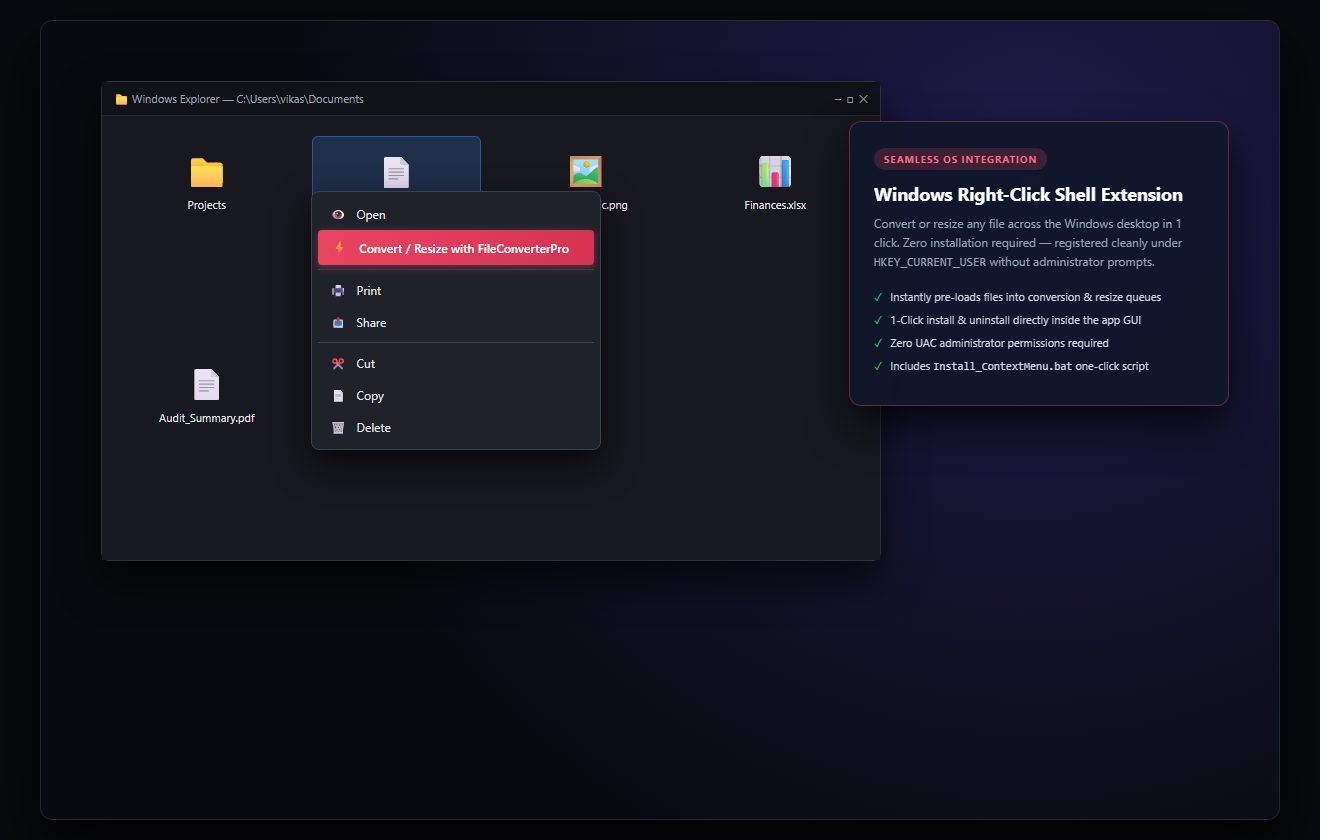
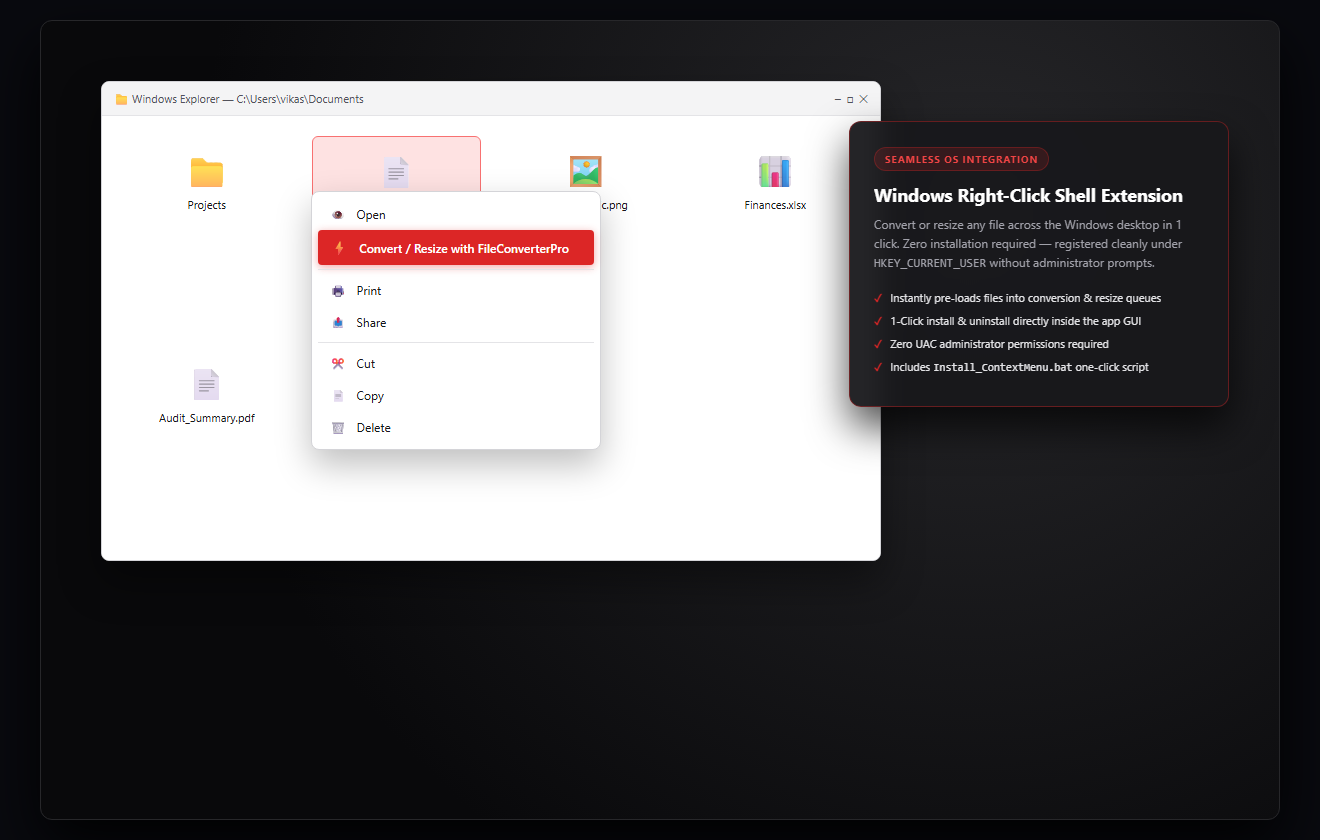
feat(ui): update interface to minimal red, white and grey Swiss theme with high-DPI screenshots

diff --git a/converter.py b/converter.py
@@ -102,21 +102,23 @@ PRESET_SIZES = {
     "Custom": "custom",
 }
 
-# Color palette — dark modern theme
+# Color palette — Minimal Red, White & Grey theme
 COLORS = {
-    "bg_dark": "#1a1a2e",
-    "bg_mid": "#16213e",
-    "bg_card": "#0f3460",
-    "accent": "#e94560",
-    "accent_hover": "#ff6b81",
-    "text_primary": "#ffffff",
-    "text_secondary": "#a0a0b0",
-    "success": "#2ecc71",
-    "warning": "#f39c12",
-    "error": "#e74c3c",
-    "border": "#2a2a4a",
-    "input_bg": "#1e1e3a",
-    "button_bg": "#e94560",
+    "bg_dark": "#f4f4f5",        # Clean minimal light grey window background (Zinc 100)
+    "bg_mid": "#ffffff",         # Pure crisp white for panels & containers
+    "bg_card": "#ffffff",        # Pure crisp white for cards & surface frames
+    "accent": "#dc2626",         # Bold minimal red (Crimson Red 600)
+    "accent_hover": "#b91c1c",   # Darker red for interactive hover states (Red 700)
+    "text_primary": "#09090b",   # Deep charcoal / near-black for high contrast (Zinc 950)
+    "text_secondary": "#71717a", # Minimal cool slate grey for metadata (Zinc 500)
+    "success": "#16a34a",        # Clean emerald green
+    "warning": "#ea580c",        # Warm amber
+    "error": "#dc2626",          # Vibrant red
+    "border": "#e4e4e7",         # Crisp subtle light grey border (Zinc 200)
+    "border_dark": "#d4d4d8",    # Defined grey border for inputs & buttons (Zinc 300)
+    "input_bg": "#ffffff",       # Pure white input background
+    "button_bg": "#dc2626",      # Vibrant red primary button
+    "trough": "#e4e4e7",         # Light grey track for progress bar
 }
 
 
@@ -369,7 +371,7 @@ class FileConverterApp:
         self.root.geometry(f"{w}x{h}+{x}+{y}")
 
     def _setup_styles(self):
-        """Configure ttk styles for the dark theme."""
+        """Configure ttk styles for the minimal red, white, grey theme."""
         self.style = ttk.Style()
         self.style.theme_use("clam")
 
@@ -378,19 +380,19 @@ class FileConverterApp:
                              foreground=COLORS["text_primary"],
                              fieldbackground=COLORS["input_bg"],
                              bordercolor=COLORS["border"],
-                             troughcolor=COLORS["bg_mid"])
+                             troughcolor=COLORS["trough"])
 
         # Notebook (tabs)
         self.style.configure("TNotebook", background=COLORS["bg_dark"],
                              borderwidth=0)
         self.style.configure("TNotebook.Tab",
-                             background=COLORS["bg_mid"],
+                             background=COLORS["bg_dark"],
                              foreground=COLORS["text_secondary"],
                              padding=[20, 10],
                              font=("Segoe UI", 11, "bold"))
         self.style.map("TNotebook.Tab",
                        background=[("selected", COLORS["accent"])],
-                       foreground=[("selected", COLORS["text_primary"])])
+                       foreground=[("selected", "#ffffff")])
 
         # Frames
         self.style.configure("Card.TFrame", background=COLORS["bg_card"],
@@ -416,28 +418,31 @@ class FileConverterApp:
                              font=("Segoe UI", 12, "bold"))
         self.style.configure("Status.TLabel",
                              background=COLORS["bg_dark"],
-                             foreground=COLORS["success"],
-                             font=("Segoe UI", 10))
+                             foreground=COLORS["text_secondary"],
+                             font=("Segoe UI", 10, "bold"))
 
         # Buttons
         self.style.configure("Accent.TButton",
                              background=COLORS["accent"],
-                             foreground=COLORS["text_primary"],
+                             foreground="#ffffff",
                              font=("Segoe UI", 11, "bold"),
                              padding=[20, 10],
                              borderwidth=0)
         self.style.map("Accent.TButton",
                        background=[("active", COLORS["accent_hover"]),
-                                   ("pressed", COLORS["accent"])])
+                                   ("pressed", COLORS["accent"])],
+                       foreground=[("active", "#ffffff"),
+                                   ("pressed", "#ffffff")])
 
         self.style.configure("Secondary.TButton",
                              background=COLORS["bg_card"],
                              foreground=COLORS["text_primary"],
-                             font=("Segoe UI", 10),
+                             font=("Segoe UI", 10, "bold"),
                              padding=[15, 8],
-                             borderwidth=0)
+                             borderwidth=1,
+                             bordercolor=COLORS["border_dark"])
         self.style.map("Secondary.TButton",
-                       background=[("active", COLORS["border"])])
+                       background=[("active", COLORS["bg_dark"])])
 
         # Combobox
         self.style.configure("TCombobox",
@@ -449,7 +454,7 @@ class FileConverterApp:
 
         # Progress bar
         self.style.configure("Accent.Horizontal.TProgressbar",
-                             troughcolor=COLORS["bg_mid"],
+                             troughcolor=COLORS["trough"],
                              background=COLORS["accent"],
                              borderwidth=0,
                              thickness=8)
@@ -494,7 +499,7 @@ class FileConverterApp:
 
         ttk.Label(title_frame, text="⚡ FileConverterPro",
                   style="Title.TLabel").pack(side=tk.LEFT)
-        ttk.Label(title_frame, text=f"v{APP_VERSION}  •  Offline Universal Converter",
+        ttk.Label(title_frame, text=f"v{APP_VERSION}  •  Offline Universal Converter & Resizer",
                   style="Subtitle.TLabel").pack(side=tk.LEFT, padx=(15, 0), pady=(8, 0))
 
         # Windows Explorer Context Menu button
@@ -512,6 +517,19 @@ class FileConverterApp:
         self._build_resize_tab()
         self._build_pdf_tools_tab()
         self._build_batch_tab()
+
+        # Status bar
+        status_frame = ttk.Frame(self.root, style="Dark.TFrame")
+        status_frame.pack(fill=tk.X, padx=20, pady=(0, 10))
+
+        self.status_var = tk.StringVar(value="Ready — Select files to get started")
+        self.status_label = ttk.Label(status_frame, textvariable=self.status_var,
+                                      style="Status.TLabel")
+        self.status_label.pack(side=tk.LEFT)
+
+        self.progress = ttk.Progressbar(status_frame, length=250, mode="determinate",
+                                        style="Accent.Horizontal.TProgressbar")
+        self.progress.pack(side=tk.RIGHT)
 
     def _update_menu_btn_text(self):
         if is_context_menu_registered():
@@ -533,19 +551,6 @@ class FileConverterApp:
             else:
                 messagebox.showerror("Error", f"Failed to add context menu: {msg}")
         self._update_menu_btn_text()
-
-        # Status bar
-        status_frame = ttk.Frame(self.root, style="Dark.TFrame")
-        status_frame.pack(fill=tk.X, padx=20, pady=(0, 10))
-
-        self.status_var = tk.StringVar(value="Ready — Select files to get started")
-        self.status_label = ttk.Label(status_frame, textvariable=self.status_var,
-                                      style="Status.TLabel")
-        self.status_label.pack(side=tk.LEFT)
-
-        self.progress = ttk.Progressbar(status_frame, length=250, mode="determinate",
-                                        style="Accent.Horizontal.TProgressbar")
-        self.progress.pack(side=tk.RIGHT)
 
     # ──────── Tab 1: Format Converter ────────
 

diff --git a/README.md b/README.md
@@ -22,6 +22,7 @@
 ## 🌟 Highlights
 
 - 🔒 **100% Offline & Private:** Your documents and photos never leave your machine. No telemetry, no cloud APIs.
+- 🎨 **Minimal Red & White UI:** Clean Swiss minimalist aesthetic engineered with high-contrast surfaces, crisp typography, and vibrant red accents.
 - 📦 **Single Standalone EXE:** Portable executable bundled with all dependencies (~38.5 MB). No Python or installation required.
 - 🔄 **Bidirectional Conversions:** Convert PDF ↔ JPG ↔ PNG ↔ BMP ↔ TIFF ↔ WEBP ↔ GIF ↔ ICO in any direction.
 - 📐 **Smart Resizer:** 20+ presets (HD, 4K, Instagram, Passport, A4 print), custom dimensions, or percentage scaling.
